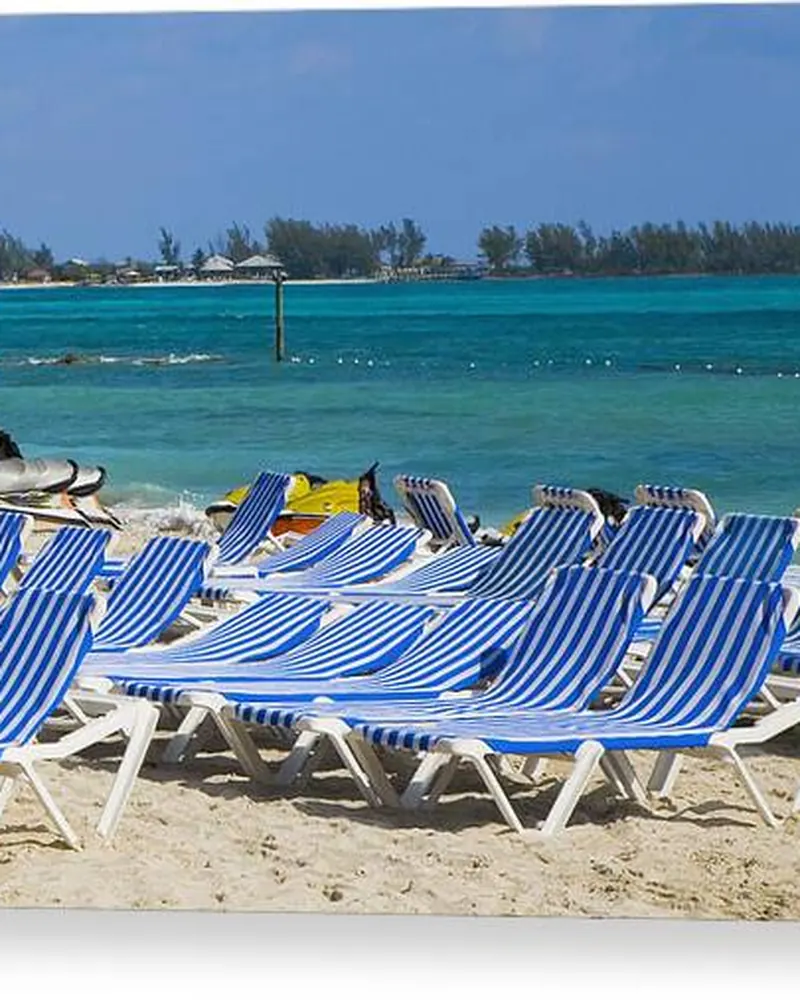
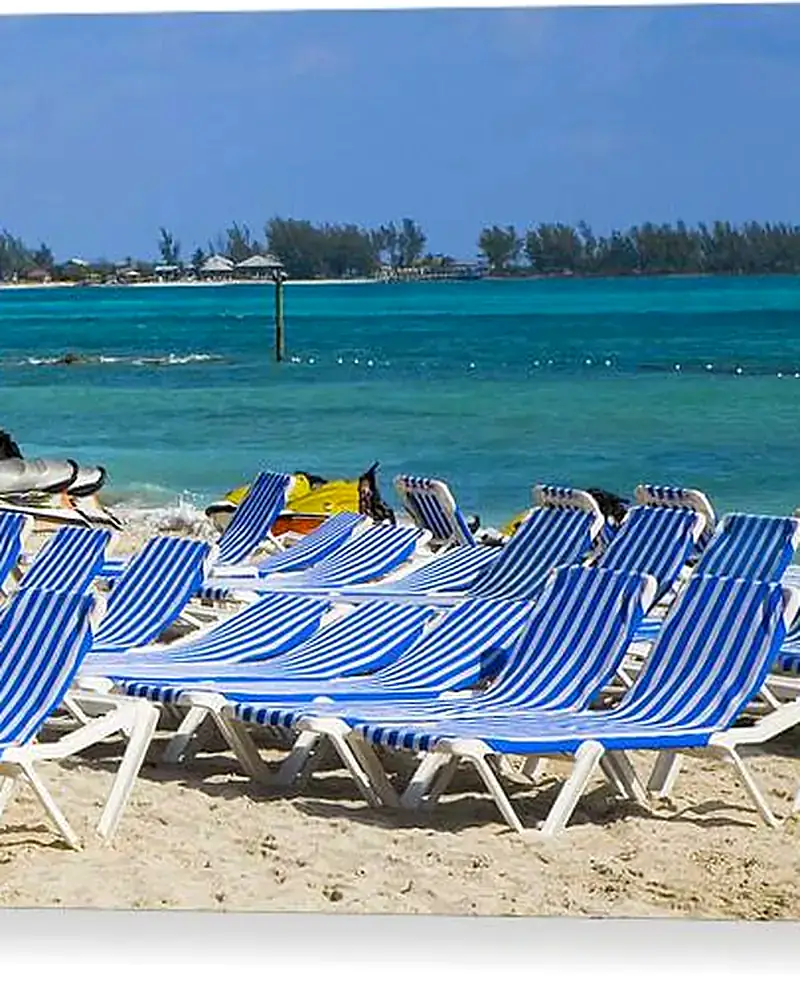
## Photos look better and load faster; Palm Cay taxi fares added - **Brighter photos:** the website's own photos now have a gentle colour, contrast and brightness boost. That covers the tour cards, package cards, the "Postcards from the Bahamas" strip, rental car photos and the featured tours on the
I checked the boosted photos on the Tours page on a phone-size screen, and that Palm Cay appears on the Taxi page.

- Next Action Items:
  - **Reactivate Text Messages**: Reactivate your Twilio account so guest reminders, airport alarms and review requests start sending
  - **East Nassau Routes**: Add more East Nassau taxi fares like Palm Cay to Airport and Palm Cay to Paradise Island

Emergent-Commit-Key: 3bf91b35d088472259c661505f57fa2ed98d669c6512dc04ec8abd85c3c1e44c

diff --git a/frontend/src/pages/Home.jsx b/frontend/src/pages/Home.jsx
@@ -128,12 +128,11 @@ export default function Home() {
         <div className="relative overflow-hidden rounded-3xl bg-gradient-to-br from-[#0B3B5C] via-[#0B3B5C] to-[#0B192C] text-white group">
           <div className="absolute inset-0 opacity-30">
             <img
-              loading="lazy"
               decoding="async"
               src="https://customer-assets-gfyr7b9c.emergentagent.net/job_bahamas-taxi-tours/artifacts/pewidk7h_medium.jpg"
               alt="Swim with dolphins at Blue Lagoon Island, Bahamas"
               loading="lazy"
-              className="w-full h-full object-cover"
+              className="photo-enhance w-full h-full object-cover"
             />
           </div>
           <div className="absolute inset-0 bg-gradient-to-r from-[#0B192C]/90 via-[#0B192C]/50 to-transparent" />
@@ -239,15 +238,13 @@ export default function Home() {
             >
               <div className="aspect-[4/5] overflow-hidden">
                 <img
-                  loading="lazy"
-                  decoding="async"
                   src={cdn(t.image_url, { w: 800 })}
                   srcSet={cdnSrcSet(t.image_url, [400, 800, 1200])}
                   sizes="(min-width: 1024px) 25vw, (min-width: 640px) 50vw, 100vw"
                   alt={t.name}
                   loading="lazy"
                   decoding="async"
-                  className="w-full h-full object-cover group-hover:scale-105 transition-transform duration-500"
+                  className="photo-enhance w-full h-full object-cover group-hover:scale-105 transition-transform duration-500"
                 />
               </div>
               <div className="p-5">
@@ -647,7 +644,6 @@ function CableBeachHomePromo() {
                   <source media="(max-width: 640px)" srcSet={s.src_mobile} type="image/webp" />
                 )}
                 <img
-                  loading="lazy"
                   decoding="async"
                   src={s.src}
                   alt={s.alt || "Cable Beach photo"}

diff --git a/frontend/src/pages/Taxi.jsx b/frontend/src/pages/Taxi.jsx
@@ -26,6 +26,7 @@ const NASSAU_DESTINATIONS = [
   { name: "Junkanoo Beach",                   area: "West Bay Street",          match: "cable beach",         Icon: Palmtree },
   { name: "Love Beach",                       area: "West Nassau",              match: "love beach",          Icon: Palmtree },
   { name: "Humes House @ Hillcrest",          area: "Airport transfer",         match: "humes house",         Icon: Hotel },
+  { name: "Palm Cay",                         area: "East Nassau",              match: "palm cay",            Icon: Palmtree },
   { name: "Sandy Toes / Rose Island",         area: "Boat departure · Marina",  match: "hourly",              Icon: Anchor },
   { name: "Custom stop — pick anywhere",      area: "Hourly charter",           match: "hourly",              Icon: MapPin },
 ];
@@ -45,6 +46,7 @@ const LOCATION_OPTIONS = [
   "Junkanoo Beach",
   "Love Beach",
   "Humes House @ Hillcrest",
+  "Palm Cay",
   "Fish Fry — Arawak Cay",
   "Sandy Toes / Rose Island",
 ];

diff --git a/frontend/src/pages/Tours.jsx b/frontend/src/pages/Tours.jsx
@@ -412,8 +412,8 @@ export default function Tours() {
                   <img
                     src={a.hero_image}
                     alt={a.name}
-                    className="w-full h-full object-cover group-hover:scale-105 transition-transform duration-700"
-                    style={{ filter: "brightness(1.02) saturate(1.08)" }}
+                    className="photo-enhance w-full h-full object-cover group-hover:scale-105 transition-transform duration-700"
+                    style={{ filter: "brightness(1.04) contrast(1.05) saturate(1.12)" }}
                     loading="lazy"
                   />
                   <div className="absolute inset-0 bg-gradient-to-t from-[#0B192C] via-[#0B192C]/25 to-transparent" />

diff --git a/frontend/src/components/PackagesStrip.jsx b/frontend/src/components/PackagesStrip.jsx
@@ -75,7 +75,7 @@ export default function PackagesStrip({ variant = "home" }) {
                   <img
                     src={p.image_url}
                     alt={p.name}
-                    className="w-full h-full object-cover group-hover:scale-105 transition-transform duration-700"
+                    className="photo-enhance w-full h-full object-cover group-hover:scale-105 transition-transform duration-700"
                     loading="lazy"
                   />
                   <div className="absolute inset-0 bg-gradient-to-t from-black/60 via-transparent to-transparent" />

diff --git a/frontend/src/components/NassauCarousel.jsx b/frontend/src/components/NassauCarousel.jsx
@@ -151,7 +151,7 @@ export default function BahamasSlider() {
                 decoding="async"
                 src={s.img}
                 alt={s.name}
-                className="w-full h-full object-cover group-hover:scale-105 transition-transform"
+                className="photo-enhance w-full h-full object-cover group-hover:scale-105 transition-transform"
                 style={{ filter: "brightness(1.14) contrast(1.20) saturate(1.18)" }}
               />
               <div className="absolute inset-0 bg-gradient-to-t from-black/70 to-transparent" />

diff --git a/frontend/src/pages/CarRental.jsx b/frontend/src/pages/CarRental.jsx
@@ -218,7 +218,7 @@ export default function CarRental() {
               <img
                 src={r.image_url}
                 alt={r.name}
-                className={`w-full h-full opacity-95 group-hover:scale-105 transition-transform duration-500 ${
+                className={`photo-enhance w-full h-full opacity-95 group-hover:scale-105 transition-transform duration-500 ${
                   r.category === "mini-van" ? "object-contain p-3" : "object-cover"
                 }`}
               />

diff --git a/frontend/src/index.css b/frontend/src/index.css
@@ -234,6 +234,9 @@ img:not(.allow-save) {
     -webkit-touch-callout: none;
     user-select: none;
 }
+.photo-enhance {
+    filter: saturate(1.1) contrast(1.05) brightness(1.03);
+}
 .chat-fab-halo {
     background: conic-gradient(from 0deg, #D4A94A, #F5E1A4, #fff8e1, #E86A3C, #D4A94A);
     -webkit-mask: radial-gradient(farthest-side, transparent calc(100% - 4px), #000 calc(100% - 3px));

diff --git a/backend/seed_data.py b/backend/seed_data.py
@@ -131,6 +131,14 @@ TAXI_SERVICES: List[Dict] = [
      "route": "LPIA → Downtown Nassau", "featured": True,
      "description": f"{_TARIFF_NOTE} Meet & greet at arrivals, luggage help, air-conditioned.",
      "image_url": _TAXI_IMG, "addons": _ADDON_AIRPORT},
+    {"id": "downtown-palmcay", "name": "Downtown Nassau → Palm Cay", "price": 55.0,
+     "route": "Downtown Nassau → Palm Cay", "featured": False,
+     "description": f"{_TARIFF_NOTE} Downtown Nassau to Palm Cay marina & residences in eastern New Providence, air-conditioned, luggage help.",
+     "image_url": _TAXI_IMG, "addons": _ADDON_AIRPORT},
+    {"id": "palmcay-downtown", "name": "Palm Cay → Downtown Nassau", "price": 55.0,
+     "route": "Palm Cay → Downtown Nassau", "featured": False,
+     "description": f"{_TARIFF_NOTE} Palm Cay marina & residences to Downtown Nassau / Bay Street, air-conditioned, luggage help.",
+     "image_url": _TAXI_IMG, "addons": _ADDON_AIRPORT},
     {"id": "downtown-airport", "name": "Downtown Nassau → LPIA Airport", "price": 40.0,
      "route": "Downtown Nassau → LPIA", "featured": True,
      "description": f"{_TARIFF_NOTE} Hotel or Bay Street pickup straight to Lynden Pindling International Airport departures, luggage help, air-conditioned.",

diff --git a/backend/server.py b/backend/server.py
@@ -2034,6 +2034,7 @@ TAXI_LOCATIONS = [
     {"tag": "junkanoo",     "label": "Junkanoo Beach",                    "keywords": ["junkanoo"]},
     {"tag": "love_beach",   "label": "Love Beach",                        "keywords": ["love beach"]},
     {"tag": "hillcrest",    "label": "Humes House @ Hillcrest",           "keywords": ["humes house", "hillcrest"]},
+    {"tag": "palm_cay",     "label": "Palm Cay",                          "keywords": ["palm cay"]},
     {"tag": "cabbage_beach","label": "Cabbage Beach",                     "keywords": ["cabbage"]},
     {"tag": "any_hotel",    "label": "My Nassau hotel (any)",             "keywords": ["any nassau hotel", "hotel"]},
 ]

diff --git a/memory/PRD.md b/memory/PRD.md
@@ -902,6 +902,9 @@ A production-grade website for a Bahamian taxi + tours + car-rental business (Na
 - Welcome banner: static short line "Save 10% on your next ride · Sign up" (no marquee).
 - Google reviews: /api/reviews returns write_review_url; GoogleReviews shows "Rode with us? Leave a review" button. Note: Google API only returns 5 reviews per call (relevant + newest already synced); owner can add other reviews manually in admin Reviews.
 - Spanish page /es (SpanishHome.jsx): Spanish hero, why-us, live airport/cruise/Atlantis fares, tours, cruise CTA, FAQ, WhatsApp/call CTAs; html lang=es; hreflang es + sitemap + footer link. Booking flow itself still English.
+- Photo enhance + speed (2026-10-31): local public/images re-processed (colour 1.08, contrast 1.05, brightness 1.02, light sharpen, recompressed; cable-beach-slide-2.webp 488→236KB). Originals backed up in /app/frontend/image_originals/. `.photo-enhance` CSS filter (saturate 1.1, contrast 1.05, brightness 1.03) on tour/package/carousel/rental/home featured-tour images (hero already had its own filter). Fixed duplicate loading/decoding props in Home.jsx.
+- New taxi routes: downtown-palmcay (Downtown Nassau → Palm Cay $55) and palmcay-downtown (Palm Cay → Downtown $55); location tag palm_cay; "Palm Cay" in Taxi page dropdown + destination cards.
+
 
 
 
